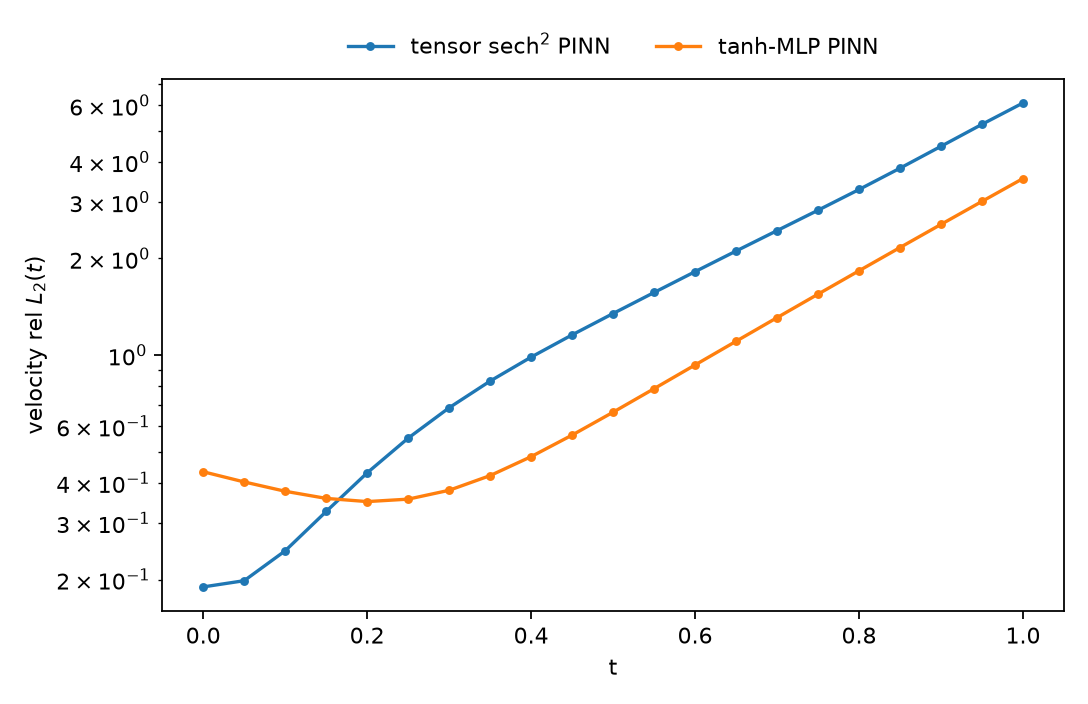
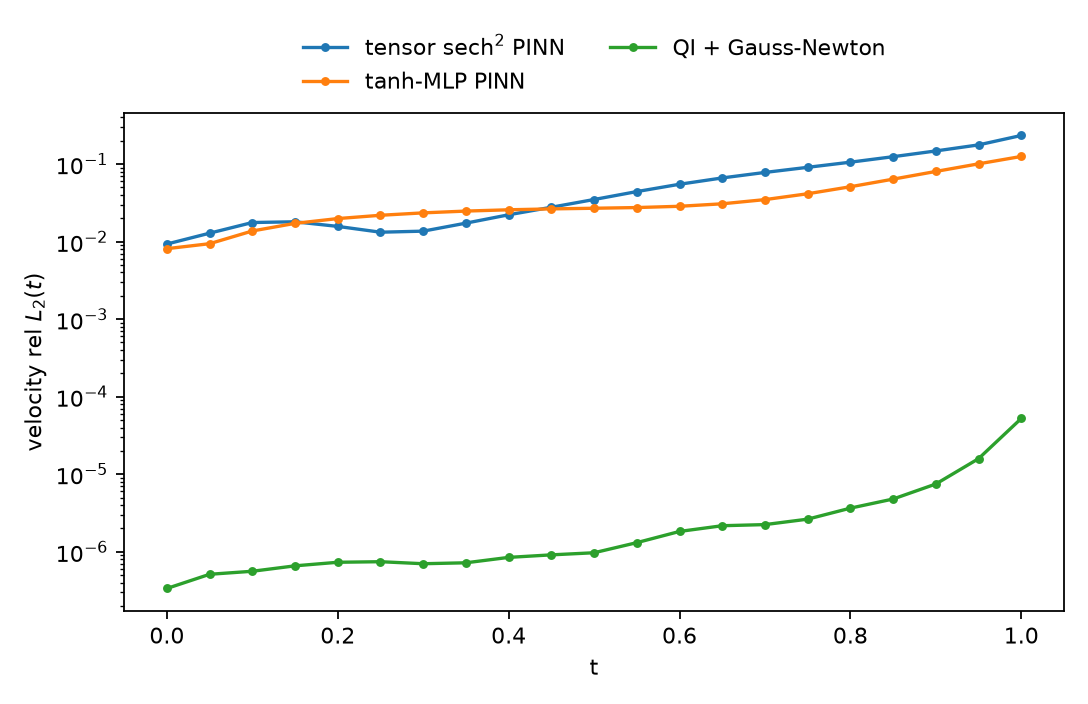
results(expF12): final figures, animation, and completed writeup
Benchmark: Gauss-Newton solve 1.5e-6 velocity rel L2 (2 steps, no training)
vs 2.7e-2 (same architecture, Adam->LBFGS) vs 2.1e-2 (tanh-MLP PINN);
supervised ceilings 2.2e-7 (same truncated basis) / 5.6e-9 (full, N=32).

Claude-Session: https://claude.ai/code/session_01PKBo6JRc7jDbmKWsvaDyJy

diff --git a/results/checkpoint_F_applications/expF12_tensor_ns3d/expF12_results.md b/results/checkpoint_F_applications/expF12_tensor_ns3d/expF12_results.md
@@ -53,13 +53,13 @@ $$u_t+(\mathbf u^0\!\cdot\!\nabla)u+u\,\partial_x u^0+v\,\partial_y u^0+w\,\part
 - **Newton converges in 2 steps and then sits at a fixed point** (metrics identical to 11 digits from iter 2 on). Step 1 (Stokes: advection off) already nails velocity (1.2e-6) but its pressure is $O(1)$ wrong -- exactly as physics demands: Beltrami flows have $(\mathbf u\!\cdot\!\nabla)\mathbf u=\nabla(|\mathbf u|^2/2)$, so the missing advection is *entirely* a pressure correction. Step 2 restores it (pressure 0.90 $\to$ 3.6e-3, momentum residual RMS 0.58 $\to$ 8.8e-5).
 - **The optimizer-vs-solve gap is 4+ orders on identical architecture and geometry.** Adam$\to$LBFGS on the same frozen-basis readout stalls at 2.7e-2; the linear-algebra solve of the same objective reaches 1.5e-6. This is Checkpoint D's central finding (first-order methods cannot solve the ill-conditioned readout; lstsq can) reproduced in 4D on a nonlinear PDE.
 - **What limits each number.** Velocity is at its truncated-basis ceiling (1.5e-6 vs 2.2e-7 supervised, and the $K{=}2000$ run tracks its own ceiling the same way: 1.6e-5 vs 1.7e-6) -- the budget $K$, not the Newton iteration, is the knob. Pressure lands further from its value-space ceiling (3.6e-3 vs 9.1e-6) but its *gradient* error is what the momentum rows constrain (RMS 8.8e-5); the smooth low-gradient pressure modes are only weakly pinned by the one-line gauge tap. Growing $K_p$ 1000$\to$2000 bought $3.7\times$ in pressure and $16\times$ in momentum residual.
-- **Error does not grow in time** (`error_vs_time.png`): time is a coordinate and the IC is a row block, so there is no accumulation over $t$ -- consistent with expF01's space-time findings.
+- **No time-stepping, no error accumulation mechanism** (`error_vs_time.png`): time is a coordinate and the IC is a row block. Absolute error stays flat-to-mildly-rising over $t$; the relative curve's late rise is mostly the decaying denominator (figure bullet below).
 
 **Figures**
 
 - `benchmark_error_vs_wallclock.png` -- the benchmark plot: velocity rel $L_2$ (log) vs wall-clock (log). Green squares: Gauss-Newton solve (each marker one Newton step; step 1 = Stokes). Blue: tensor sech$^2$ PINN (Adam then LBFGS; dotted vertical = phase switch). Orange: tanh-MLP PINN. Dashed lines: supervised ceilings (same-width and best); dash-dot: typical literature PINN accuracy ($\sim$1e-3).
 - `ceiling_convergence.png` -- supervised ceiling vs per-axis $N$, one line per $(\lambda,\mathrm{rcond})$; log y. Shows the $\lambda$ basin and the rcond $10^{-13}\to10^{-15}$ gain.
-- `error_vs_time.png` -- velocity rel $L_2(t)$ on a $25^3$ spatial grid per time slice, one line per method: does error grow in $t$ (no time-stepping, so it should not).
+- `error_vs_time.png` -- velocity rel $L_2(t)$ on a $25^3$ spatial grid per time slice, one line per method. The Newton solve stays 3-5 orders below both PINNs at every $t$; its rise toward $t{=}1$ (3e-7 $\to$ 5e-5) is partly the *relative* normalization -- the Beltrami field decays as $e^{-2d^2\nu t}$ ($\sim$0.007 energy by $t{=}1$), shrinking the denominator.
 - `ns3d_slice.gif` -- animation over $t$ of the $z{=}0$ slice: exact $|\mathbf u|$, headline-model $|\mathbf u|$, its $\omega_z$ vorticity, and $\log_{10}$ pointwise velocity error.
 
 ## Additional details
